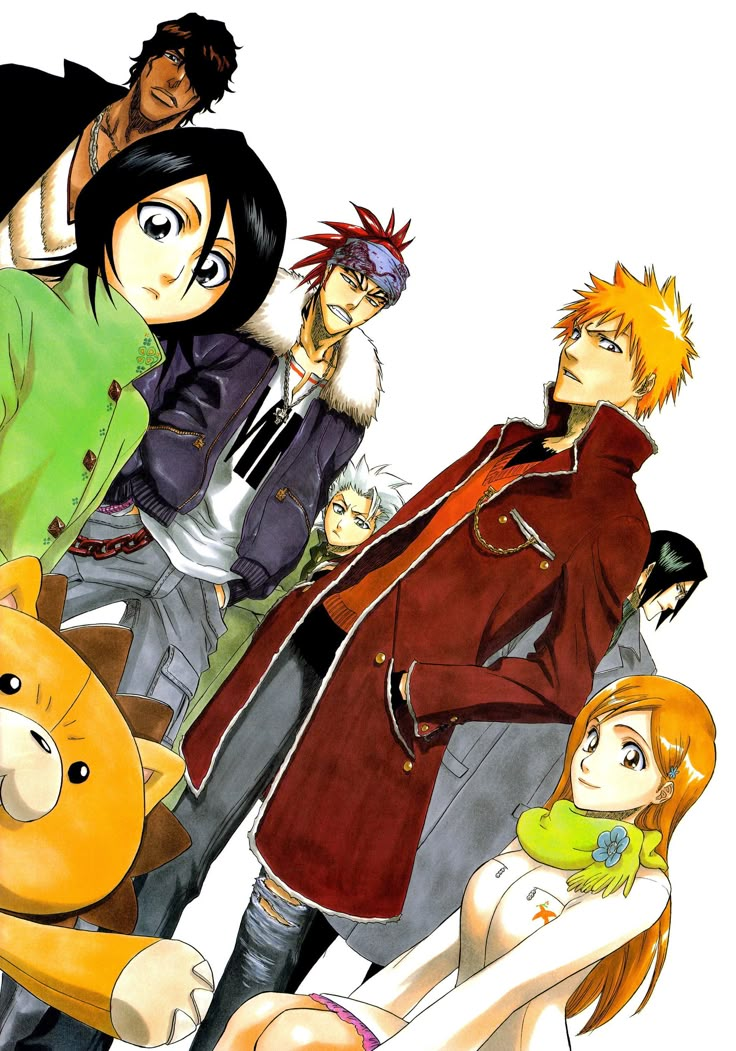
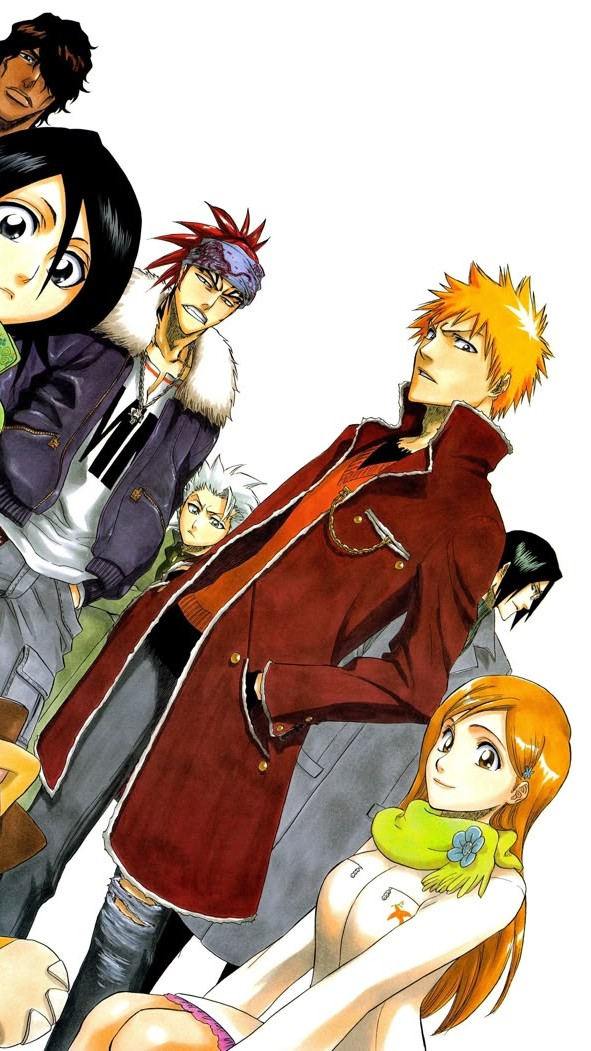
Imatges ratellades per caber-hi bé + noms ben posats

diff --git a/FLUTTER/hollows_go/lib/screens/prehomescreen.dart b/FLUTTER/hollows_go/lib/screens/prehomescreen.dart
@@ -1,5 +1,4 @@
 import '../imports.dart';
-import 'dart:math';
 
 class PreHomeScreen extends StatefulWidget {
   @override
@@ -12,11 +11,11 @@ class _PreHomeScreenState extends State<PreHomeScreen>
     'lib/images/imatges_prehomescreen/0c7569c5931f07a4fbce4e1dd58f9684.jpg',
     'lib/images/imatges_prehomescreen/28bee056b92ef5af41ab8d7cc6f6949a.jpg',
     'lib/images/imatges_prehomescreen/47a6c1657d9d7a35d1e852d28cd2316c.jpg',
-    'lib/images/imatges_prehomescreen/69c392cd882d589286c840dbfcac9cb.jpg',
-    'lib/images/imatges_prehomescreen/73fa9d142edb2cde3417eecc0d15fbcb.jpg',
-    'lib/images/imatges_prehomescreen/5951c02f2a2a74dea733a1085497562f.jpg',
-    'lib/images/imatges_prehomescreen/a82b5790310afc901065789e5073b5a4.jpg',
-    'lib/images/imatges_prehomescreen/a5717d71795e05c9c35eaf4032c546b.jpg',
+    'lib/images/imatges_prehomescreen/69c392ced882d589286c840dbfcac9cb.jpg',
+    'lib/images/imatges_prehomescreen/73fa9d142edb2cde3417eecc0d15bfcb.jpg',
+    'lib/images/imatges_prehomescreen/5951c02f2a2a74dea733a108549756f2.jpg',
+    'lib/images/imatges_prehomescreen/a82b5790310afc901065789e507b584a.jpg',
+    'lib/images/imatges_prehomescreen/a571d7d77159e05c9c35eaf4032c546b.jpg',
     'lib/images/imatges_prehomescreen/c7fbad03a224d0ee498ff8194ba14314.jpg',
     'lib/images/imatges_prehomescreen/c7285af40c27b635bab67680262bcd84.jpg',
   ];
